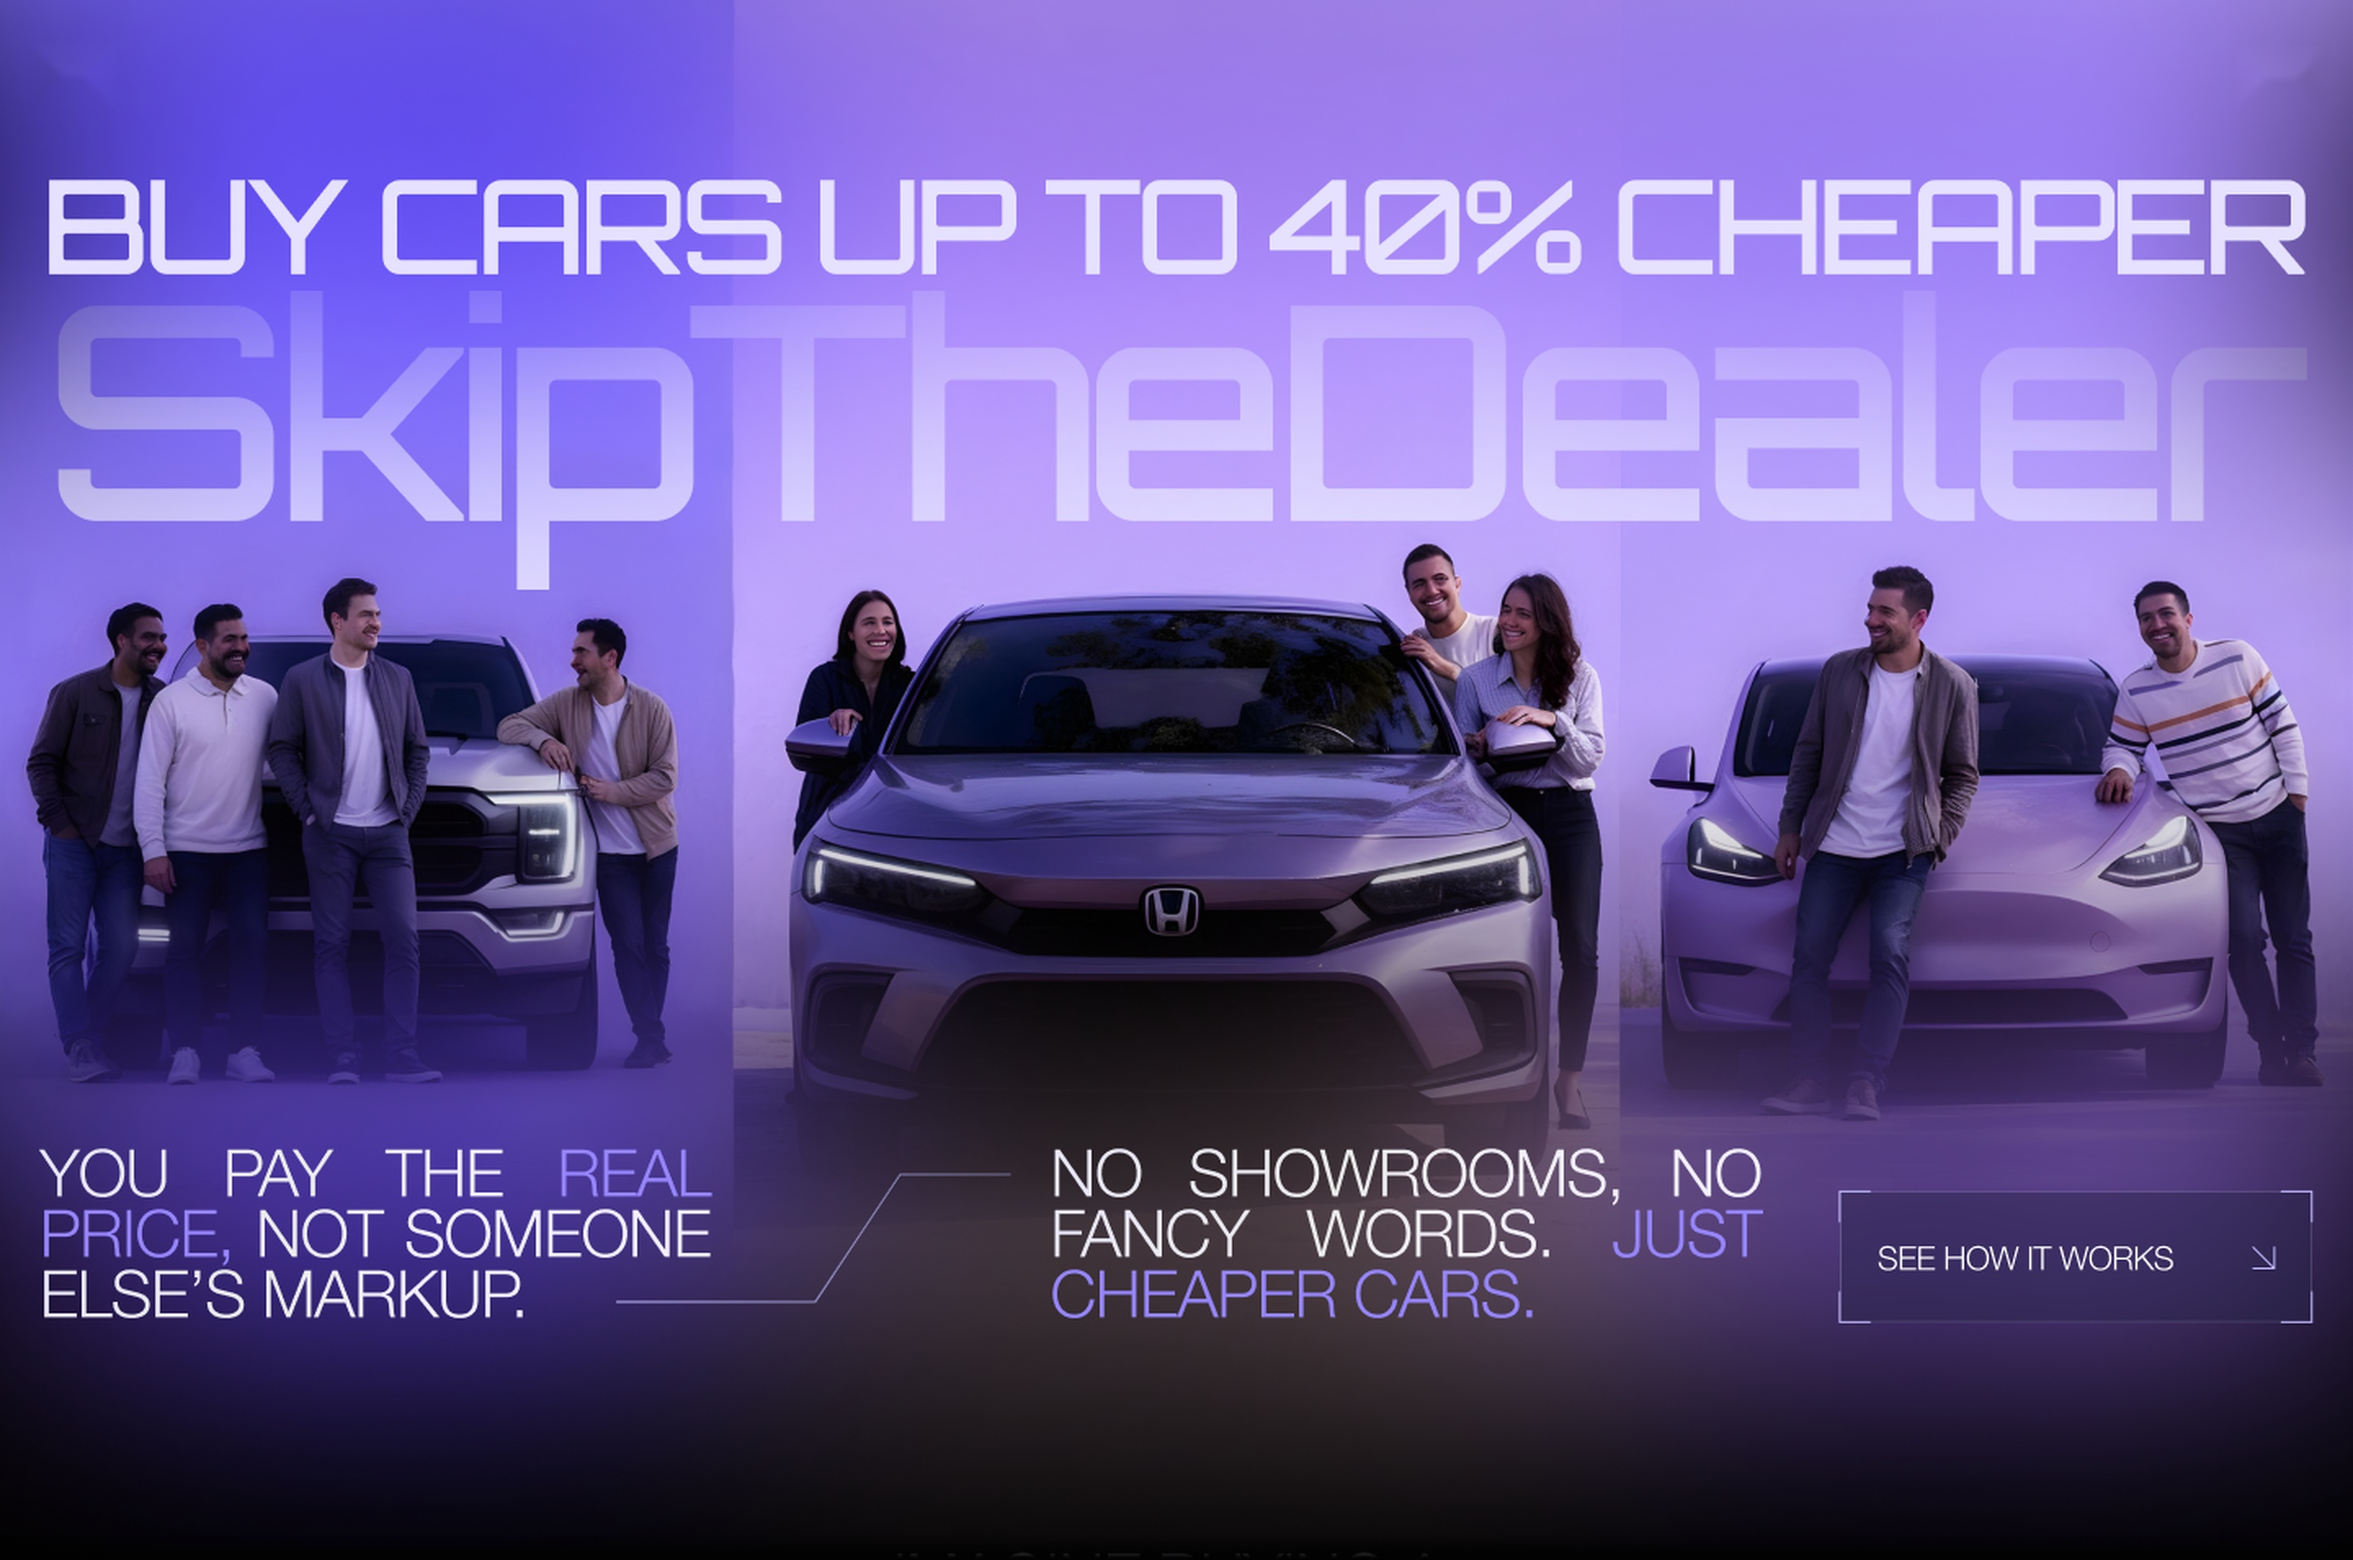
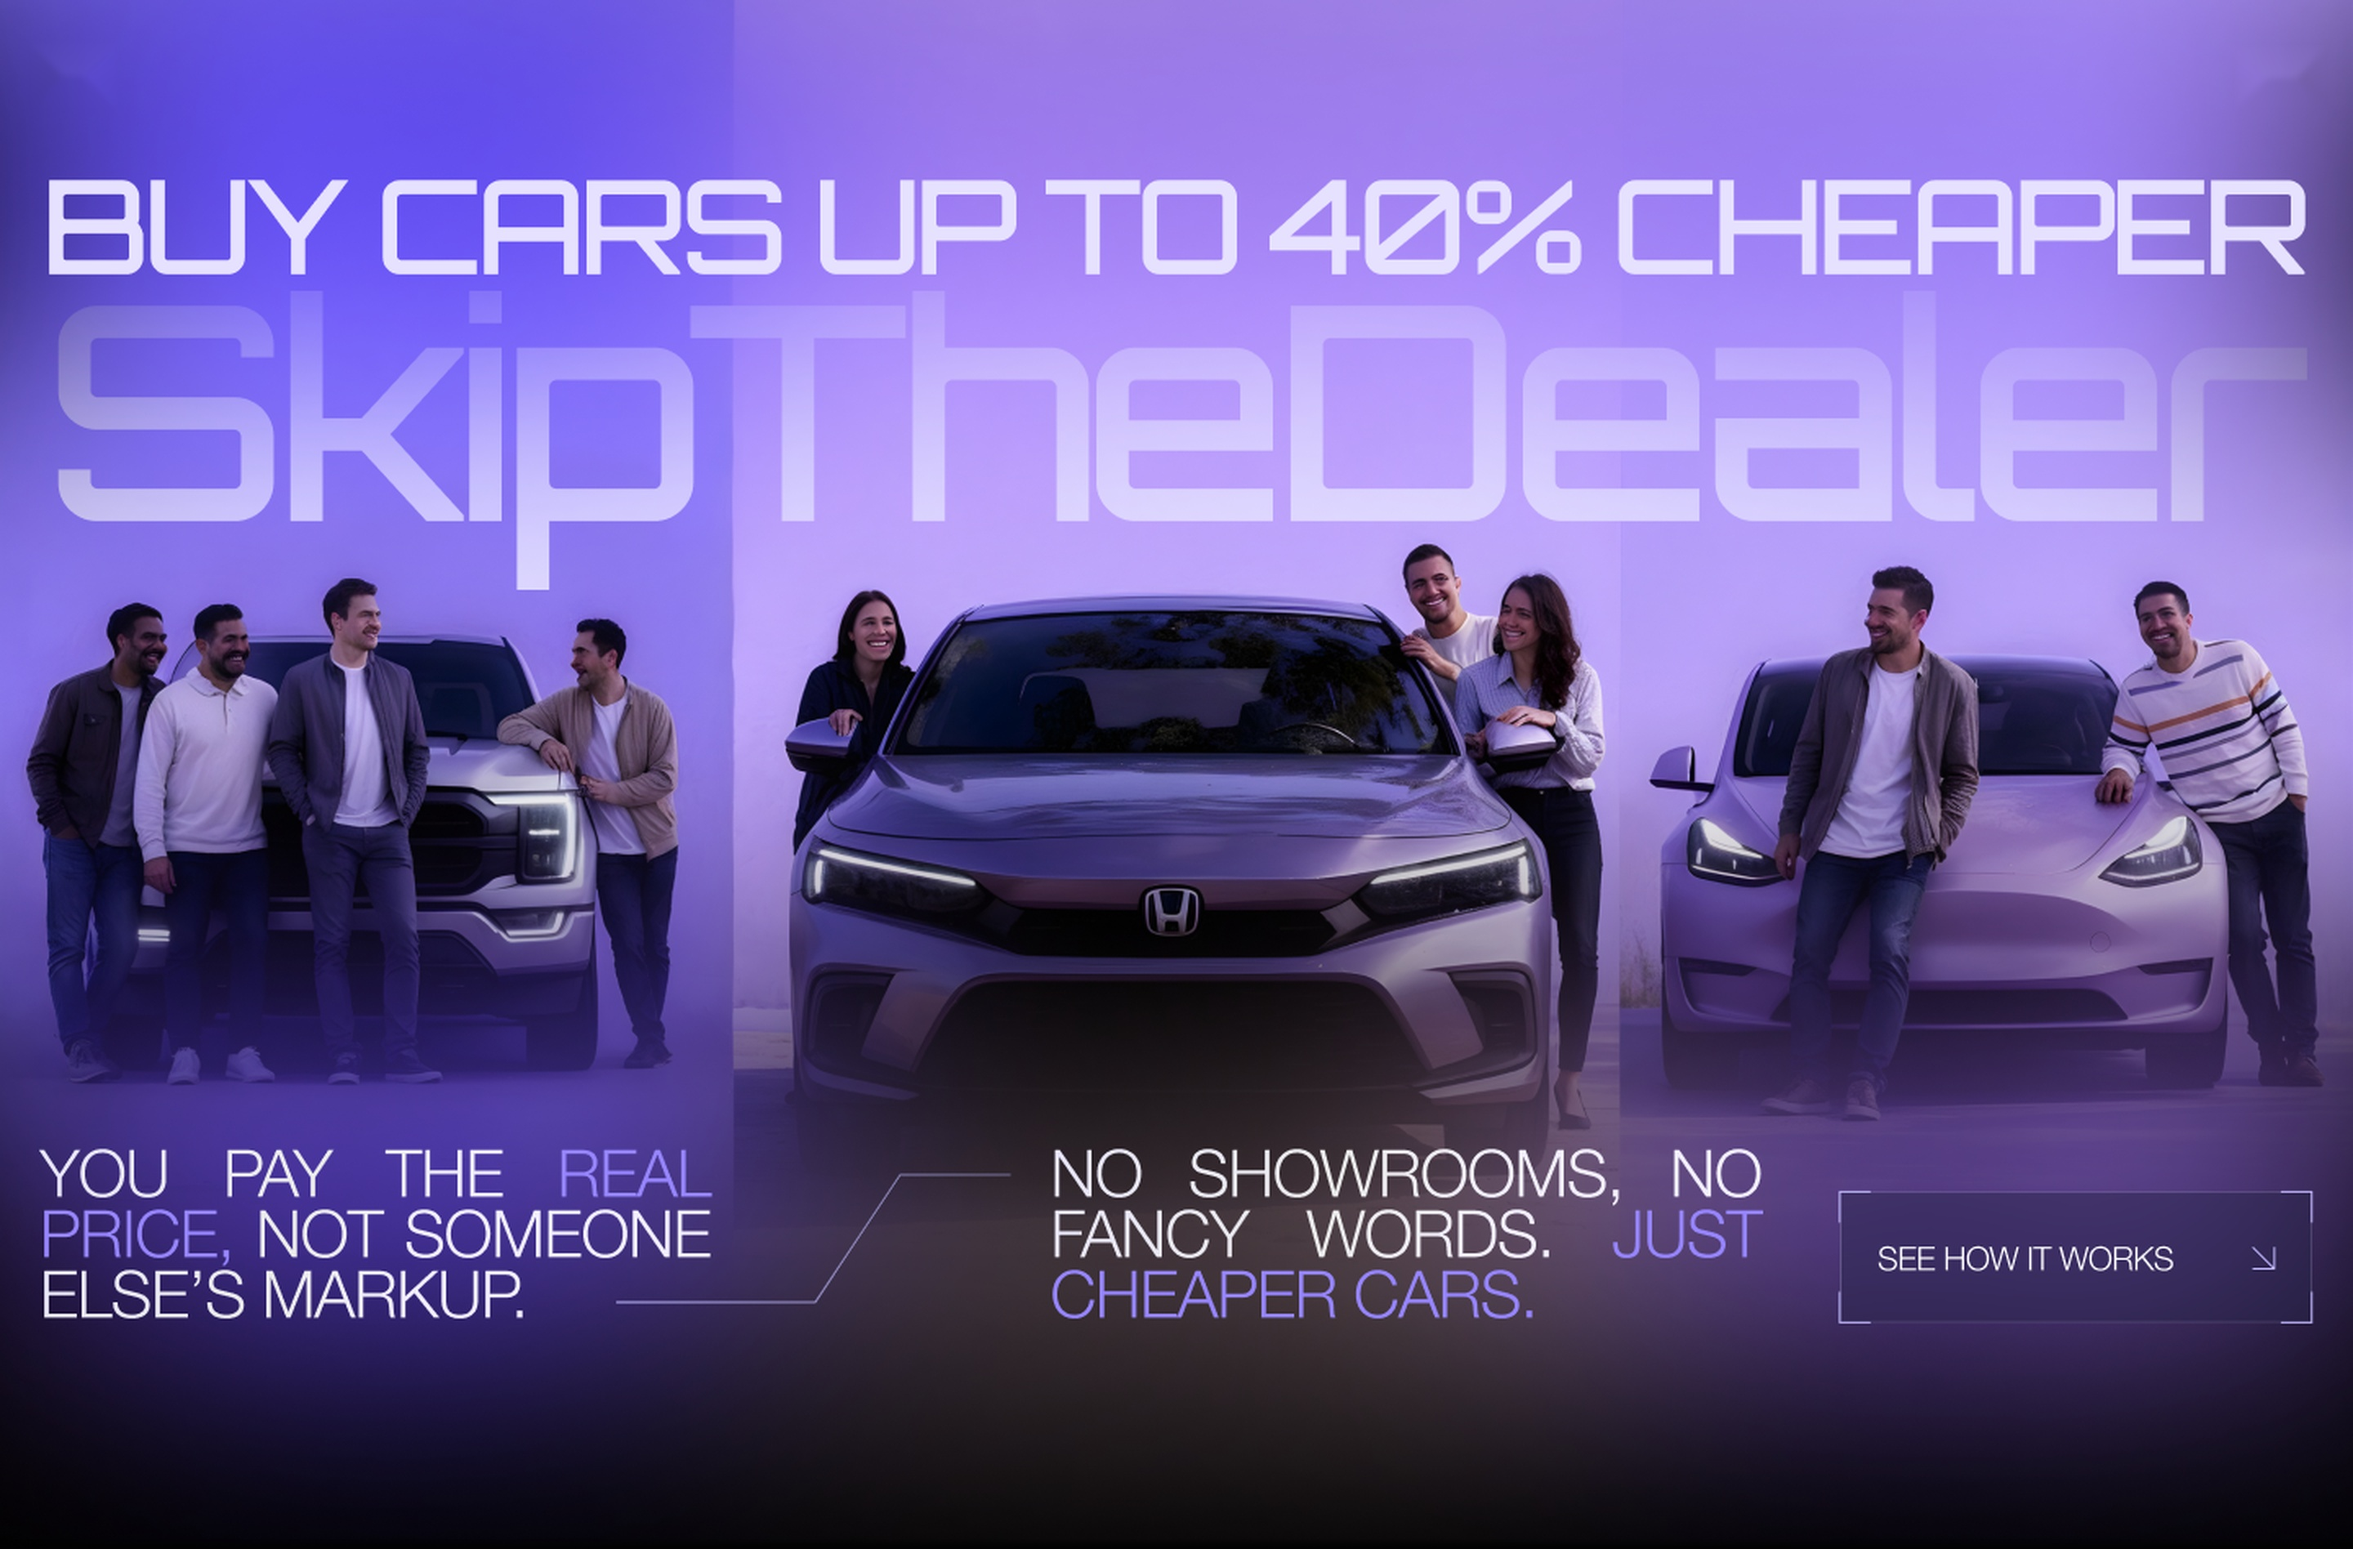
SkipTheDealer: 100% full-bleed hero (zero black sidebars), natural seamless black floor transition, exact match to user screenshots 1 & 2

diff --git a/assets/css/page-dealer.css b/assets/css/page-dealer.css
@@ -21,19 +21,20 @@
   text-shadow: 0 0 30px rgba(194, 185, 255, 0.7);
 }
 
-/* 1. HERO — EXACT FIGMA 1:1 REPRODUCTION (Full-width, seamless bottom transition) */
+/* 1. HERO — FULL-WIDTH SEAMLESS 1:1 PER FIGMA (No black sidebars, clean text, natural black floor) */
 .dealer-hero {
   position: relative;
   width: 100%;
   background-color: #020202;
   box-sizing: border-box;
+  overflow: hidden;
 }
 
 .dealer-hero__board {
   position: relative;
   width: 100%;
-  max-width: 1240px;
-  margin: 0 auto;
+  max-width: none;
+  margin: 0;
 }
 
 .dealer-hero__board-img {
@@ -49,25 +50,26 @@
 .dealer-hero__cta-hitarea {
   position: absolute;
   left: 78.194%;
-  top: 76.33%;
+  top: 76.9%;
   width: 20.069%;
-  height: 8.38%;
+  height: 8.44%;
   z-index: 10;
   cursor: pointer;
   border-radius: 2px;
   transition: background 0.3s ease, box-shadow 0.3s ease;
 }
 
-/* 2. SCENARIOS — SEAMLESS CONTINUATION */
+/* 2. SCENARIOS — SEAMLESS NATURAL CONTINUATION ON #020202 */
 .dealer-scenarios {
   position: relative;
   width: 100%;
-  padding: 16px 0 100px;
+  padding: 10px 0 90px;
+  margin-top: -20px;
   background-color: #020202;
   overflow: hidden;
 }
 
-.dealer-scenarios__container.dealer-scenarios__container.dealer-scenarios__container.dealer-scenarios__container {
+.dealer-scenarios__container.dealer-scenarios__container.dealer-scenarios__container.dealer-scenarios__container.dealer-scenarios__container {
   max-width: 1440px;
   margin: 0 auto;
   padding: 0 24px;
@@ -759,12 +761,10 @@
   .dealer-scenarios {
   position: relative;
   width: 100%;
-  padding: 20px 0 100px;
-  margin-top: -30px;
+  padding: 10px 0 90px;
+  margin-top: -20px;
   background-color: #020202;
-  background-image: radial-gradient(900px 350px at 50% 0%, rgba(83, 60, 231, 0.15) 0%, rgba(42, 31, 104, 0.08) 45%, transparent 75%);
   overflow: hidden;
-  z-index: 2;
 }
   .dealer-scenarios__title {
     font-size: 26px;
